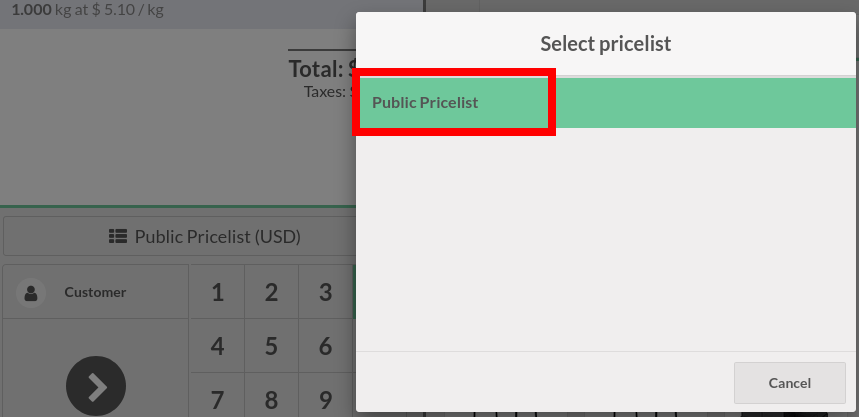
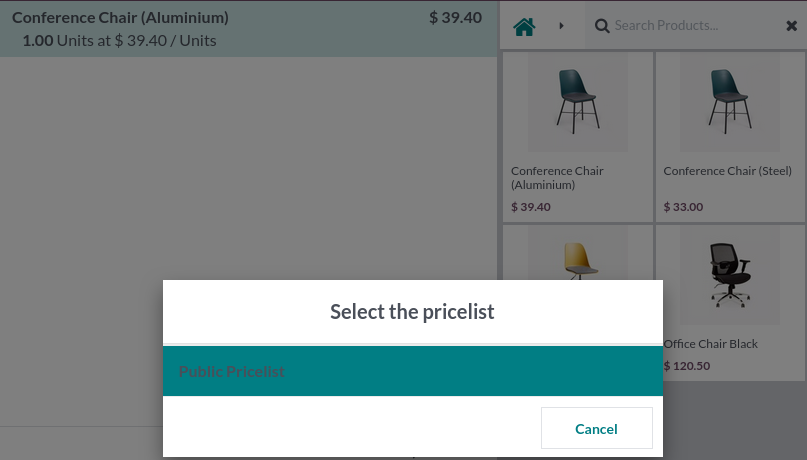
[MIG] pos_pricelist_technical: Migration to 16.0

diff --git a/pos_pricelist_technical/static/description/index.html b/pos_pricelist_technical/static/description/index.html
@@ -367,17 +367,17 @@ ul.auto-toc {
 !! This file is generated by oca-gen-addon-readme !!
 !! changes will be overwritten.                   !!
 !!!!!!!!!!!!!!!!!!!!!!!!!!!!!!!!!!!!!!!!!!!!!!!!!!!!
-!! source digest: sha256:83f4a65db54ee9f2c31801a30a513fb917f81633b315cf5558ac39968ca4d398
+!! source digest: sha256:f6138dc8225efb9675d48e223d79a902befe521bb2ae3f46418b277f02a22c59
 !!!!!!!!!!!!!!!!!!!!!!!!!!!!!!!!!!!!!!!!!!!!!!!!!!!! -->
-<p><a class="reference external image-reference" href="https://odoo-community.org/page/development-status"><img alt="Beta" src="https://img.shields.io/badge/maturity-Beta-yellow.png" /></a> <a class="reference external image-reference" href="http://www.gnu.org/licenses/agpl-3.0-standalone.html"><img alt="License: AGPL-3" src="https://img.shields.io/badge/licence-AGPL--3-blue.png" /></a> <a class="reference external image-reference" href="https://github.com/OCA/pos/tree/12.0/pos_pricelist_technical"><img alt="OCA/pos" src="https://img.shields.io/badge/github-OCA%2Fpos-lightgray.png?logo=github" /></a> <a class="reference external image-reference" href="https://translation.odoo-community.org/projects/pos-12-0/pos-12-0-pos_pricelist_technical"><img alt="Translate me on Weblate" src="https://img.shields.io/badge/weblate-Translate%20me-F47D42.png" /></a> <a class="reference external image-reference" href="https://runboat.odoo-community.org/builds?repo=OCA/pos&amp;target_branch=12.0"><img alt="Try me on Runboat" src="https://img.shields.io/badge/runboat-Try%20me-875A7B.png" /></a></p>
+<p><a class="reference external image-reference" href="https://odoo-community.org/page/development-status"><img alt="Beta" src="https://img.shields.io/badge/maturity-Beta-yellow.png" /></a> <a class="reference external image-reference" href="http://www.gnu.org/licenses/agpl-3.0-standalone.html"><img alt="License: AGPL-3" src="https://img.shields.io/badge/licence-AGPL--3-blue.png" /></a> <a class="reference external image-reference" href="https://github.com/OCA/pos/tree/16.0/pos_pricelist_technical"><img alt="OCA/pos" src="https://img.shields.io/badge/github-OCA%2Fpos-lightgray.png?logo=github" /></a> <a class="reference external image-reference" href="https://translation.odoo-community.org/projects/pos-16-0/pos-16-0-pos_pricelist_technical"><img alt="Translate me on Weblate" src="https://img.shields.io/badge/weblate-Translate%20me-F47D42.png" /></a> <a class="reference external image-reference" href="https://runboat.odoo-community.org/builds?repo=OCA/pos&amp;target_branch=16.0"><img alt="Try me on Runboat" src="https://img.shields.io/badge/runboat-Try%20me-875A7B.png" /></a></p>
 <p>This module extends the functionality of Point of Sale to prevent
 technical pricelists that are used for the
 computation of other pricelists from being selected.</p>
 <p><strong>Table of contents</strong></p>
 <div class="contents local topic" id="contents">
 <ul class="simple">
-<li><a class="reference internal" href="#usage" id="toc-entry-1">Usage</a></li>
-<li><a class="reference internal" href="#known-issues-roadmap" id="toc-entry-2">Known issues / Roadmap</a></li>
+<li><a class="reference internal" href="#configuration" id="toc-entry-1">Configuration</a></li>
+<li><a class="reference internal" href="#usage" id="toc-entry-2">Usage</a></li>
 <li><a class="reference internal" href="#bug-tracker" id="toc-entry-3">Bug Tracker</a></li>
 <li><a class="reference internal" href="#credits" id="toc-entry-4">Credits</a><ul>
 <li><a class="reference internal" href="#authors" id="toc-entry-5">Authors</a></li>
@@ -387,37 +387,32 @@ computation of other pricelists from being selected.</p>
 </li>
 </ul>
 </div>
-<div class="section" id="usage">
-<h1><a class="toc-backref" href="#toc-entry-1">Usage</a></h1>
-<p>To use this module, you need to</p>
+<div class="section" id="configuration">
+<h1><a class="toc-backref" href="#toc-entry-1">Configuration</a></h1>
 <ul class="simple">
 <li>First configure the main module <tt class="docutils literal">sale_pricelist_technical</tt>.</li>
 <li>Configure your pricelist on your pos config form.</li>
 </ul>
 <div class="figure">
-<img alt="https://raw.githubusercontent.com/OCA/pos/12.0/pos_pricelist_technical/static/description/pos_config_form.png" src="https://raw.githubusercontent.com/OCA/pos/12.0/pos_pricelist_technical/static/description/pos_config_form.png" />
+<img alt="https://raw.githubusercontent.com/OCA/pos/16.0/pos_pricelist_technical/static/description/pos_config_form.png" src="https://raw.githubusercontent.com/OCA/pos/16.0/pos_pricelist_technical/static/description/pos_config_form.png" />
 </div>
+</div>
+<div class="section" id="usage">
+<h1><a class="toc-backref" href="#toc-entry-2">Usage</a></h1>
 <ul class="simple">
 <li>Open the point of sale</li>
-<li>Click on ‘Pricelist’ Button. Only non technical pricelist are displayed</li>
+<li>Click on ‘Pricelist’ Button. Only non technical pricelists are displayed</li>
 </ul>
 <div class="figure">
-<img alt="https://raw.githubusercontent.com/OCA/pos/12.0/pos_pricelist_technical/static/description/pos_front_end_ui.png" src="https://raw.githubusercontent.com/OCA/pos/12.0/pos_pricelist_technical/static/description/pos_front_end_ui.png" />
+<img alt="https://raw.githubusercontent.com/OCA/pos/16.0/pos_pricelist_technical/static/description/pos_front_end_ui.png" src="https://raw.githubusercontent.com/OCA/pos/16.0/pos_pricelist_technical/static/description/pos_front_end_ui.png" />
 </div>
-</div>
-<div class="section" id="known-issues-roadmap">
-<h1><a class="toc-backref" href="#toc-entry-2">Known issues / Roadmap</a></h1>
-<ul class="simple">
-<li>When migrating the module, check if overwrite totally
-the function <tt class="docutils literal">button_click</tt> is still mandatory.</li>
-</ul>
 </div>
 <div class="section" id="bug-tracker">
 <h1><a class="toc-backref" href="#toc-entry-3">Bug Tracker</a></h1>
 <p>Bugs are tracked on <a class="reference external" href="https://github.com/OCA/pos/issues">GitHub Issues</a>.
 In case of trouble, please check there if your issue has already been reported.
 If you spotted it first, help us to smash it by providing a detailed and welcomed
-<a class="reference external" href="https://github.com/OCA/pos/issues/new?body=module:%20pos_pricelist_technical%0Aversion:%2012.0%0A%0A**Steps%20to%20reproduce**%0A-%20...%0A%0A**Current%20behavior**%0A%0A**Expected%20behavior**">feedback</a>.</p>
+<a class="reference external" href="https://github.com/OCA/pos/issues/new?body=module:%20pos_pricelist_technical%0Aversion:%2016.0%0A%0A**Steps%20to%20reproduce**%0A-%20...%0A%0A**Current%20behavior**%0A%0A**Expected%20behavior**">feedback</a>.</p>
 <p>Do not contact contributors directly about support or help with technical issues.</p>
 </div>
 <div class="section" id="credits">
@@ -443,7 +438,7 @@ mission is to support the collaborative development of Odoo features and
 promote its widespread use.</p>
 <p>Current <a class="reference external" href="https://odoo-community.org/page/maintainer-role">maintainer</a>:</p>
 <p><a class="reference external image-reference" href="https://github.com/legalsylvain"><img alt="legalsylvain" src="https://github.com/legalsylvain.png?size=40px" /></a></p>
-<p>This module is part of the <a class="reference external" href="https://github.com/OCA/pos/tree/12.0/pos_pricelist_technical">OCA/pos</a> project on GitHub.</p>
+<p>This module is part of the <a class="reference external" href="https://github.com/OCA/pos/tree/16.0/pos_pricelist_technical">OCA/pos</a> project on GitHub.</p>
 <p>You are welcome to contribute. To learn how please visit <a class="reference external" href="https://odoo-community.org/page/Contribute">https://odoo-community.org/page/Contribute</a>.</p>
 </div>
 </div>

diff --git a/pos_pricelist_technical/static/src/js/SetPricelistButton.esm.js b/pos_pricelist_technical/static/src/js/SetPricelistButton.esm.js
@@ -1,0 +1,22 @@
+/** @odoo-module **/
+/**
+Copyright (C) 2022 - Today: GRAP (http://www.grap.coop)
+@author: Sylvain LE GAL (https://twitter.com/legalsylvain)
+License AGPL-3.0 or later (http://www.gnu.org/licenses/agpl.html).
+**/
+
+import Registries from "point_of_sale.Registries";
+import SetPricelistButton from "point_of_sale.SetPricelistButton";
+
+const SetPricelistButtonPosTechnicalPricelist = (OriginalSetPricelistButton) =>
+    class extends OriginalSetPricelistButton {
+        async showPopup(name, props) {
+            props.list = props.list.filter((x) => !x.item.is_technical);
+            return await super.showPopup(name, props);
+        }
+    };
+
+Registries.Component.extend(
+    SetPricelistButton,
+    SetPricelistButtonPosTechnicalPricelist
+);

diff --git a/pos_pricelist_technical/__manifest__.py b/pos_pricelist_technical/__manifest__.py
@@ -5,26 +5,19 @@
     "name": "Point of Sale - Technical Pricelists",
     "summary": "Prevent technical pricelists from being"
     " displayed in the Point of Sale front-end UI",
-    "version": "12.0.1.0.1",
+    "version": "16.0.1.0.0",
     "category": "Point of Sale",
     "author": "GRAP,Odoo Community Association (OCA)",
     "maintainers": ["legalsylvain"],
     "website": "https://github.com/OCA/pos",
     "license": "AGPL-3",
-    "depends": [
-        "point_of_sale",
-        "sale_pricelist_technical",
-    ],
-    "data": [
-        "views/templates.xml",
-    ],
-    "qweb": [
-        "static/src/xml/pos_pricelist_technical.xml",
-    ],
-    "images": [
-        "static/description/pos_front_end_ui.png",
-        "static/description/pos_config_form.png",
-    ],
+    "depends": ["point_of_sale", "sale_pricelist_technical"],
+    "assets": {
+        "point_of_sale.assets": [
+            "pos_pricelist_technical/static/src/js/SetPricelistButton.esm.js",
+            "pos_pricelist_technical/static/src/xml/PartnerDetailsEdit.xml",
+        ],
+    },
     "installable": True,
     "auto_install": True,
 }

diff --git a/pos_pricelist_technical/models/pos_session.py b/pos_pricelist_technical/models/pos_session.py
@@ -1,0 +1,14 @@
+# Copyright (C) 2024 - Today: GRAP (http://www.grap.coop)
+# @author: Sylvain LE GAL (https://twitter.com/legalsylvain)
+# License AGPL-3.0 or later (http://www.gnu.org/licenses/agpl.html).
+
+from odoo import models
+
+
+class PosSession(models.Model):
+    _inherit = "pos.session"
+
+    def _loader_params_product_pricelist(self):
+        result = super()._loader_params_product_pricelist()
+        result["search_params"]["fields"].extend(["is_technical"])
+        return result

diff --git a/pos_pricelist_technical/models/__init__.py b/pos_pricelist_technical/models/__init__.py
@@ -1,1 +1,2 @@
 from . import pos_order
+from . import pos_session

diff --git a/pos_pricelist_technical/README.rst b/pos_pricelist_technical/README.rst
@@ -7,7 +7,7 @@ Point of Sale - Technical Pricelists
    !! This file is generated by oca-gen-addon-readme !!
    !! changes will be overwritten.                   !!
    !!!!!!!!!!!!!!!!!!!!!!!!!!!!!!!!!!!!!!!!!!!!!!!!!!!!
-   !! source digest: sha256:83f4a65db54ee9f2c31801a30a513fb917f81633b315cf5558ac39968ca4d398
+   !! source digest: sha256:f6138dc8225efb9675d48e223d79a902befe521bb2ae3f46418b277f02a22c59
    !!!!!!!!!!!!!!!!!!!!!!!!!!!!!!!!!!!!!!!!!!!!!!!!!!!!
 
 .. |badge1| image:: https://img.shields.io/badge/maturity-Beta-yellow.png
@@ -17,13 +17,13 @@ Point of Sale - Technical Pricelists
     :target: http://www.gnu.org/licenses/agpl-3.0-standalone.html
     :alt: License: AGPL-3
 .. |badge3| image:: https://img.shields.io/badge/github-OCA%2Fpos-lightgray.png?logo=github
-    :target: https://github.com/OCA/pos/tree/12.0/pos_pricelist_technical
+    :target: https://github.com/OCA/pos/tree/16.0/pos_pricelist_technical
     :alt: OCA/pos
 .. |badge4| image:: https://img.shields.io/badge/weblate-Translate%20me-F47D42.png
-    :target: https://translation.odoo-community.org/projects/pos-12-0/pos-12-0-pos_pricelist_technical
+    :target: https://translation.odoo-community.org/projects/pos-16-0/pos-16-0-pos_pricelist_technical
     :alt: Translate me on Weblate
 .. |badge5| image:: https://img.shields.io/badge/runboat-Try%20me-875A7B.png
-    :target: https://runboat.odoo-community.org/builds?repo=OCA/pos&target_branch=12.0
+    :target: https://runboat.odoo-community.org/builds?repo=OCA/pos&target_branch=16.0
     :alt: Try me on Runboat
 
 |badge1| |badge2| |badge3| |badge4| |badge5|
@@ -38,28 +38,23 @@ computation of other pricelists from being selected.
 .. contents::
    :local:
 
-Usage
-=====
-
-To use this module, you need to
+Configuration
+=============
 
 * First configure the main module ``sale_pricelist_technical``.
 
 * Configure your pricelist on your pos config form.
 
-.. figure:: https://raw.githubusercontent.com/OCA/pos/12.0/pos_pricelist_technical/static/description/pos_config_form.png
+.. figure:: https://raw.githubusercontent.com/OCA/pos/16.0/pos_pricelist_technical/static/description/pos_config_form.png
+
+Usage
+=====
 
 * Open the point of sale
 
-* Click on 'Pricelist' Button. Only non technical pricelist are displayed
+* Click on 'Pricelist' Button. Only non technical pricelists are displayed
 
-.. figure:: https://raw.githubusercontent.com/OCA/pos/12.0/pos_pricelist_technical/static/description/pos_front_end_ui.png
-
-Known issues / Roadmap
-======================
-
-* When migrating the module, check if overwrite totally
-  the function ``button_click`` is still mandatory.
+.. figure:: https://raw.githubusercontent.com/OCA/pos/16.0/pos_pricelist_technical/static/description/pos_front_end_ui.png
 
 Bug Tracker
 ===========
@@ -67,7 +62,7 @@ Bug Tracker
 Bugs are tracked on `GitHub Issues <https://github.com/OCA/pos/issues>`_.
 In case of trouble, please check there if your issue has already been reported.
 If you spotted it first, help us to smash it by providing a detailed and welcomed
-`feedback <https://github.com/OCA/pos/issues/new?body=module:%20pos_pricelist_technical%0Aversion:%2012.0%0A%0A**Steps%20to%20reproduce**%0A-%20...%0A%0A**Current%20behavior**%0A%0A**Expected%20behavior**>`_.
+`feedback <https://github.com/OCA/pos/issues/new?body=module:%20pos_pricelist_technical%0Aversion:%2016.0%0A%0A**Steps%20to%20reproduce**%0A-%20...%0A%0A**Current%20behavior**%0A%0A**Expected%20behavior**>`_.
 
 Do not contact contributors directly about support or help with technical issues.
 
@@ -105,6 +100,6 @@ Current `maintainer <https://odoo-community.org/page/maintainer-role>`__:
 
 |maintainer-legalsylvain| 
 
-This module is part of the `OCA/pos <https://github.com/OCA/pos/tree/12.0/pos_pricelist_technical>`_ project on GitHub.
+This module is part of the `OCA/pos <https://github.com/OCA/pos/tree/16.0/pos_pricelist_technical>`_ project on GitHub.
 
 You are welcome to contribute. To learn how please visit https://odoo-community.org/page/Contribute.

diff --git a/pos_pricelist_technical/readme/USAGE.rst b/pos_pricelist_technical/readme/USAGE.rst
@@ -1,13 +1,5 @@
-To use this module, you need to
-
-* First configure the main module ``sale_pricelist_technical``.
-
-* Configure your pricelist on your pos config form.
-
-.. figure:: ../static/description/pos_config_form.png
-
 * Open the point of sale
 
-* Click on 'Pricelist' Button. Only non technical pricelist are displayed
+* Click on 'Pricelist' Button. Only non technical pricelists are displayed
 
 .. figure:: ../static/description/pos_front_end_ui.png

diff --git a/pos_pricelist_technical/readme/CONFIGURE.rst b/pos_pricelist_technical/readme/CONFIGURE.rst
@@ -1,0 +1,5 @@
+* First configure the main module ``sale_pricelist_technical``.
+
+* Configure your pricelist on your pos config form.
+
+.. figure:: ../static/description/pos_config_form.png
